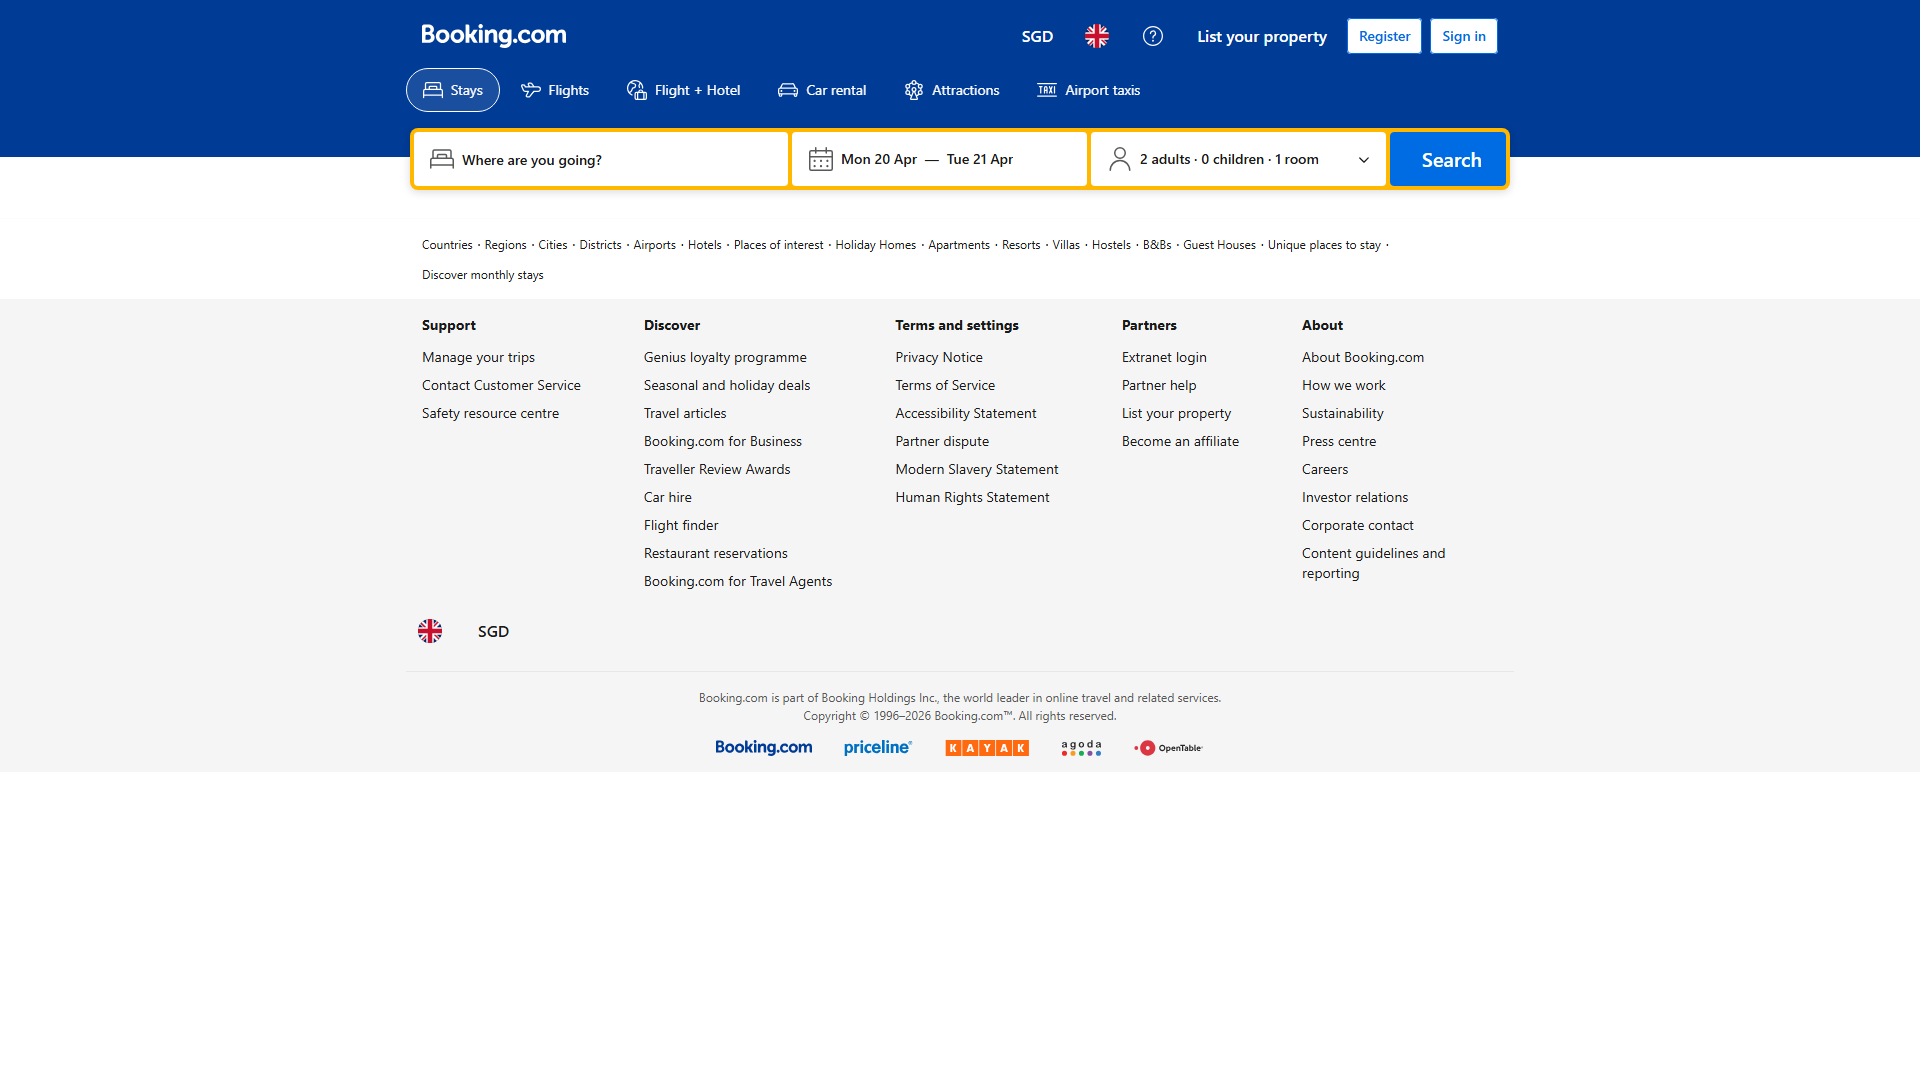
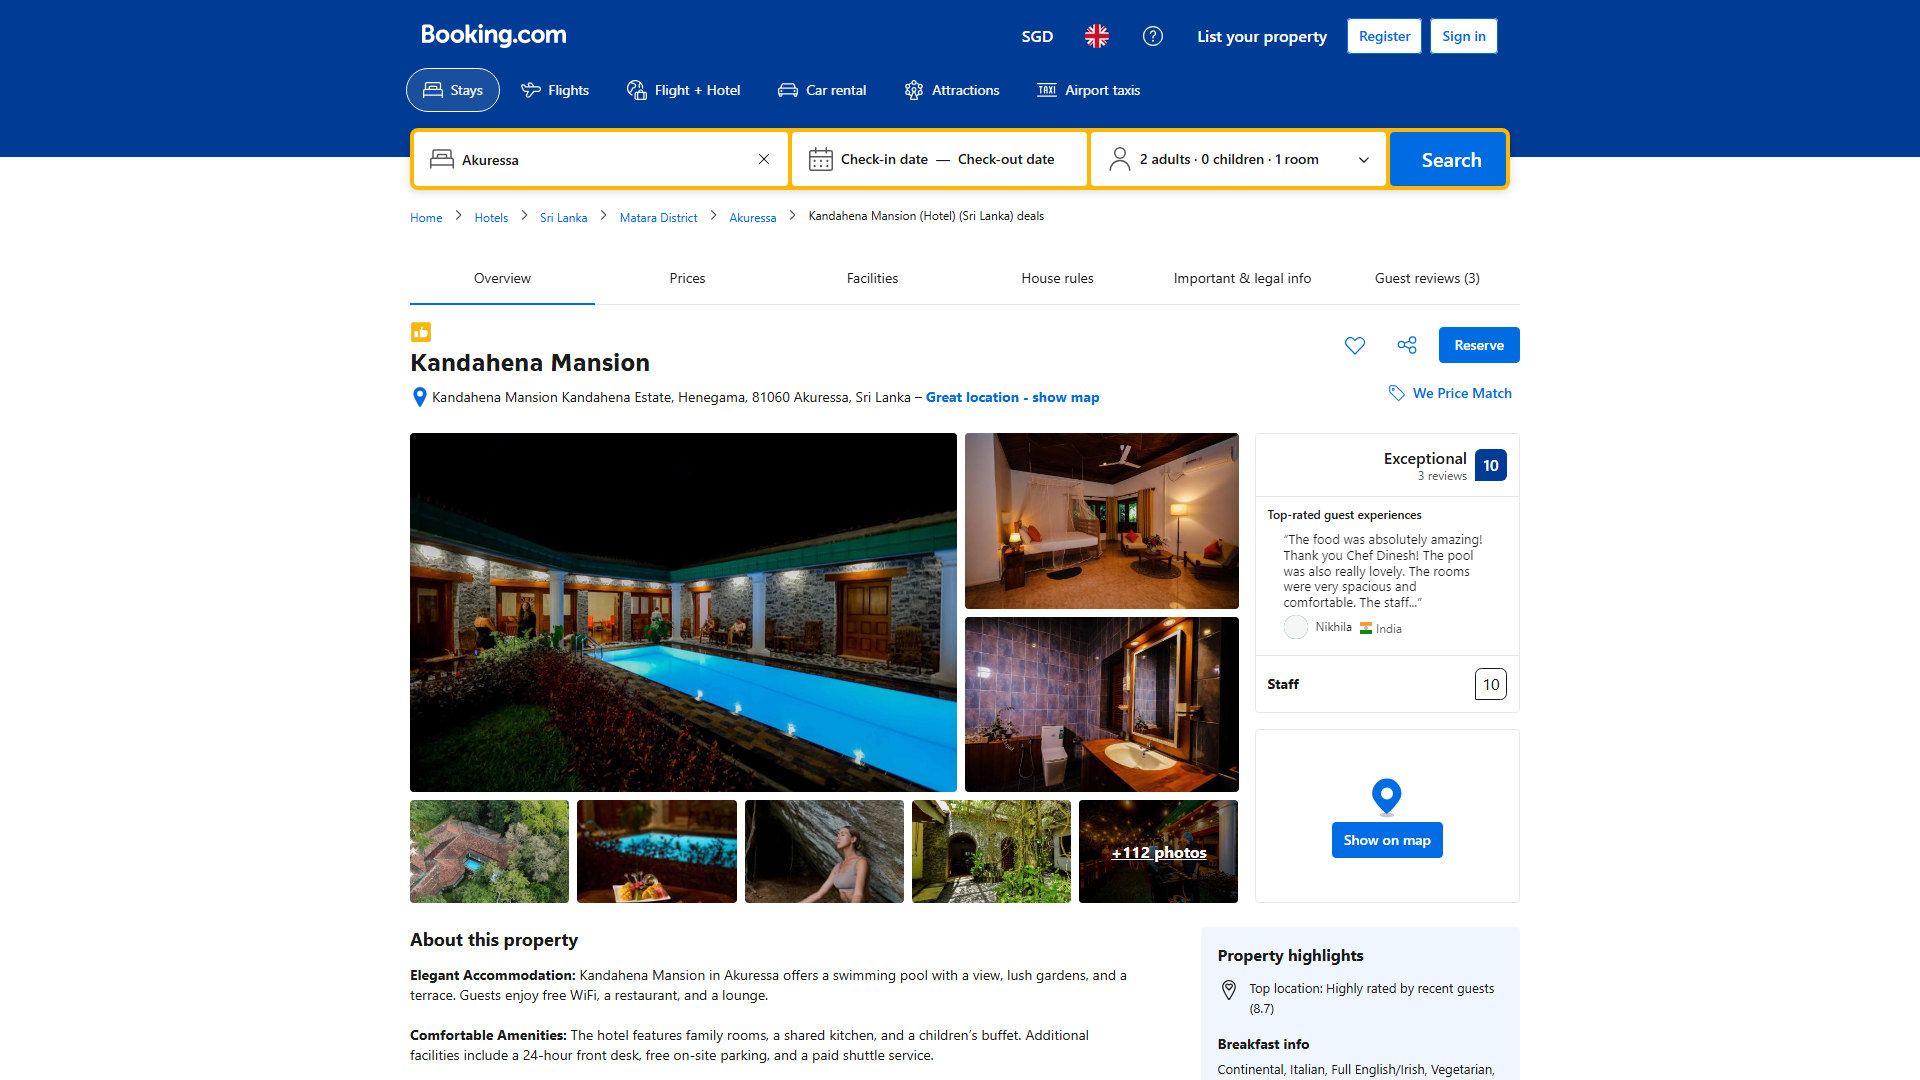
changed embedding logic

diff --git a/backend/app/modules/source/services/embedding_client.py b/backend/app/modules/source/services/embedding_client.py
@@ -1,27 +1,28 @@
 """
 Embedding Client
 ================
-Triggered by the main backend after a scrape COMPLETED notification.
+Triggered by the main backend after the AI analysis pipeline completes.
 
 Flow:
-  1. Fetch unembedded reviews from the Scraper Engine
-     (GET {SCRAPER_ENGINE_URL}/api/reviews/unembedded/{source_id})
+  1. Fetch processed reviews from [ReviewMate].[dbo].[processed_review]
+     that are status='processed' AND is_embedded=0 for the given source_id
   2. Derive a stable integer hotel_id from the source_id for ChromaDB namespacing
   3. POST them in one batch to the Embedding Service
      (POST {EMBEDDING_SERVICE_URL}/embed/batch)
-  4. On success, tell the Scraper Engine to mark those review_ids as embedded
-     (PATCH {SCRAPER_ENGINE_URL}/api/reviews/mark-embedded)
+  4. On success, mark those review IDs as is_embedded=1 directly in processed_review
 """
 
 import os
 import logging
 import threading
 import httpx
+import pyodbc
+
+from app.core.pyodbc_connection import get_connection_string
 
 logger = logging.getLogger(__name__)
 
 # ── Service URLs ─────────────────────────────────────────────────────────────
-SCRAPER_ENGINE_URL = os.getenv("SCRAPER_ENGINE_URL", "http://127.0.0.1:8001")
 EMBEDDING_SERVICE_URL = os.getenv("EMBEDDING_SERVICE_URL", "http://127.0.0.1:8002")
 
 
@@ -37,31 +38,65 @@ def _derive_hotel_id(source_id: str) -> int:
 def _embed_source_reviews(source_id: str) -> None:
     """
     Core logic (runs in a background thread):
-      1. Fetch unembedded reviews from Scraper Engine
+      1. Fetch unembedded processed reviews from ReviewMate DB
       2. Batch-embed them via Embedding Service
-      3. Mark them as embedded in Scraper Engine
+      3. Mark them as embedded in processed_review table
     """
     logger.info(f"[EmbeddingClient] Starting embedding pipeline for source_id={source_id}")
 
-    # ── Step 1: Fetch unembedded reviews from Scraper Engine ──────────────────
+    # ── Step 1: Fetch unembedded, processed reviews from ReviewMate DB ────────
     try:
-        fetch_url = f"{SCRAPER_ENGINE_URL}/api/reviews/unembedded/{source_id}"
-        response = httpx.get(fetch_url, timeout=30.0)
-        response.raise_for_status()
-        payload = response.json()
-    except httpx.HTTPError as e:
-        logger.error(f"[EmbeddingClient] Failed to fetch unembedded reviews for {source_id}: {e}")
-        return
+        conn = pyodbc.connect(get_connection_string())
+        cursor = conn.cursor()
+
+        cursor.execute("""
+            SELECT
+                CAST(id AS VARCHAR(36)) AS review_id,
+                text,
+                positive_text,
+                negative_text
+            FROM dbo.processed_review
+            WHERE source_id = CAST(? AS UNIQUEIDENTIFIER)
+              AND status = 'processed'
+              AND is_embedded = 0
+            ORDER BY scrapedAt ASC
+        """, source_id)
+
+        columns = [col[0] for col in cursor.description]
+        rows = [dict(zip(columns, row)) for row in cursor.fetchall()]
+        conn.close()
     except Exception as e:
-        logger.error(f"[EmbeddingClient] Unexpected error fetching unembedded reviews: {e}")
+        logger.error(f"[EmbeddingClient] Failed to fetch unembedded processed reviews for {source_id}: {e}")
         return
 
-    reviews_data = payload.get("data", [])
+    if not rows:
+        logger.info(f"[EmbeddingClient] No unembedded processed reviews found for source_id={source_id}. Skipping.")
+        return
+
+    # Build review text for embedding (combine text fields)
+    reviews_data = []
+    for row in rows:
+        # Build the review_text from available fields
+        text_parts = []
+        if row.get("text"):
+            text_parts.append(row["text"])
+        if row.get("positive_text"):
+            text_parts.append(row["positive_text"])
+        if row.get("negative_text"):
+            text_parts.append(row["negative_text"])
+
+        review_text = " ".join(text_parts).strip()
+        if review_text:
+            reviews_data.append({
+                "review_id": row["review_id"],
+                "review_text": review_text,
+            })
+
     if not reviews_data:
-        logger.info(f"[EmbeddingClient] No unembedded reviews found for source_id={source_id}. Skipping.")
+        logger.info(f"[EmbeddingClient] All fetched reviews have empty text for source_id={source_id}. Skipping.")
         return
 
-    logger.info(f"[EmbeddingClient] Found {len(reviews_data)} unembedded reviews for source_id={source_id}")
+    logger.info(f"[EmbeddingClient] Found {len(reviews_data)} unembedded processed reviews for source_id={source_id}")
 
     # ── Step 2: Send to Embedding Service ─────────────────────────────────────
     hotel_id = _derive_hotel_id(source_id)
@@ -69,7 +104,7 @@ def _embed_source_reviews(source_id: str) -> None:
         "hotel_id": hotel_id,
         "reviews": [
             {
-                "review_id": str(r["review_id"]),
+                "review_id": r["review_id"],
                 "text": r["review_text"]
             }
             for r in reviews_data
@@ -100,25 +135,33 @@ def _embed_source_reviews(source_id: str) -> None:
 
     logger.info(f"[EmbeddingClient] Successfully embedded {len(embedded_ids_str)} reviews for source_id={source_id}")
 
-    # ── Step 3: Mark reviews as embedded in Scraper Engine ────────────────────
-    # The embedding service returns review_ids as strings.
+    # ── Step 3: Mark reviews as embedded in processed_review table ────────────
     try:
-        mark_url = f"{SCRAPER_ENGINE_URL}/api/reviews/mark-embedded"
-        mark_response = httpx.patch(mark_url, json={"review_ids": embedded_ids_str}, timeout=30.0)
-        mark_response.raise_for_status()
-        mark_result = mark_response.json()
-        logger.info(f"[EmbeddingClient] Marked {mark_result.get('updated_count', 0)} reviews as embedded in Scraper Engine.")
-    except httpx.HTTPError as e:
-        logger.error(f"[EmbeddingClient] Failed to mark reviews as embedded in Scraper Engine: {e}")
+        conn = pyodbc.connect(get_connection_string())
+        cursor = conn.cursor()
+
+        # Build parameterized IN clause
+        placeholders = ",".join(["CAST(? AS UNIQUEIDENTIFIER)"] * len(embedded_ids_str))
+        sql = f"""
+            UPDATE dbo.processed_review
+            SET is_embedded = 1
+            WHERE id IN ({placeholders})
+        """
+        cursor.execute(sql, *embedded_ids_str)
+        updated_count = cursor.rowcount
+        conn.commit()
+        conn.close()
+
+        logger.info(f"[EmbeddingClient] Marked {updated_count} reviews as embedded in processed_review.")
     except Exception as e:
-        logger.error(f"[EmbeddingClient] Unexpected error marking reviews as embedded: {e}")
+        logger.error(f"[EmbeddingClient] Failed to mark reviews as embedded in processed_review: {e}")
 
 
 def trigger_embedding_for_source(source_id: str) -> None:
     """
     Fire-and-forget: launch embedding pipeline in a background thread.
-    Called from source_service.update_sync_status() when status == COMPLETED.
-    Does NOT block the sync-status API response.
+    Called from review_service after AI analysis pipeline completes.
+    Does NOT block the processing pipeline.
     """
     thread = threading.Thread(
         target=_embed_source_reviews,

diff --git a/microservices/scraper_engine/api/endpoints/reviews.py b/microservices/scraper_engine/api/endpoints/reviews.py
@@ -6,8 +6,6 @@ including full platform-specific detail columns and attached media.
 """
 
 from fastapi import APIRouter, HTTPException
-from pydantic import BaseModel
-from typing import List
 from core.database import get_session
 from core.models import (
     Source,
@@ -208,104 +206,3 @@ def delete_review(review_id: str):
         logger.error(f"Failed to delete review {review_id}: {e}", exc_info=True)
 
 
-# ── Mark-Embedded Request Schema ──
-class MarkEmbeddedRequest(BaseModel):
-    """Payload to mark a list of review IDs as embedded."""
-
-    review_ids: List[str]
-
-
-@router.patch("/mark-embedded")
-def mark_reviews_as_embedded(body: MarkEmbeddedRequest):
-    """
-    Mark a batch of reviews as embedded (is_embedded = True).
-    Called by the main backend after the embedding service successfully
-    processes them.
-    """
-    if not body.review_ids:
-        return {"updated_count": 0, "message": "No review IDs provided."}
-
-    session = get_session()
-    try:
-        updated = (
-            session.query(Review)
-            .filter(Review.review_id.in_(body.review_ids))
-            .update({"is_embedded": True}, synchronize_session=False)
-        )
-        session.commit()
-        logger.info(f"Marked {updated} reviews as embedded: {body.review_ids[:10]}...")
-        return {
-            "updated_count": updated,
-            "message": f"Marked {updated} reviews as embedded.",
-        }
-    except Exception as e:
-        session.rollback()
-        logger.error(f"Failed to mark reviews as embedded: {e}", exc_info=True)
-        raise HTTPException(status_code=500, detail=str(e))
-    finally:
-        session.close()
-
-
-@router.get("/unembedded/{source_id}")
-def get_unembedded_reviews(source_id: str, limit: int = 500):
-    """
-    Returns reviews for a source that have NOT yet been embedded (is_embedded=False).
-    Used by the main backend to know which reviews to send to the embedding service.
-    """
-    session = get_session()
-    try:
-        source = session.query(Source).filter_by(source_id=source_id).first()
-        if not source:
-            raise HTTPException(status_code=404, detail="Source not found")
-
-        platform = source.platform_name.lower()
-        detail_attr, serializer = _PLATFORM_SERIALIZERS.get(platform, (None, None))
-
-        query = (
-            session.query(Review)
-            .filter(Review.source_id == source_id)
-            .filter(Review.is_embedded == False)  # noqa: E712
-        )
-
-        if detail_attr:
-            query = query.options(joinedload(getattr(Review, detail_attr)))
-
-        reviews = query.order_by(Review.review_id.asc()).limit(limit).all()
-
-        results = []
-        for r in reviews:
-            detail_obj = getattr(r, detail_attr, None) if detail_attr else None
-            # Build the review_text field for embedding
-            review_text = None
-            if detail_obj:
-                if platform == "booking":
-                    pos = getattr(detail_obj, "positive_text", "") or ""
-                    neg = getattr(detail_obj, "negative_text", "") or ""
-                    review_text = f"{pos} {neg}".strip() or None
-                else:
-                    review_text = getattr(detail_obj, "review_text", None)
-
-            if review_text:  # Only include reviews that have text to embed
-                results.append(
-                    {
-                        "review_id": r.review_id,
-                        "review_text": review_text,
-                    }
-                )
-
-        return {
-            "source_id": source_id,
-            "platform": platform,
-            "unembedded_count": len(results),
-            "data": results,
-        }
-    except HTTPException:
-        raise
-    except Exception as e:
-        logger.error(
-            f"Failed to fetch unembedded reviews for source {source_id}: {e}",
-            exc_info=True,
-        )
-        raise HTTPException(status_code=500, detail=str(e))
-    finally:
-        session.close()

diff --git a/microservices/scraper_engine/core/models.py b/microservices/scraper_engine/core/models.py
@@ -10,7 +10,7 @@ type of data (e.g. stay_date, reviewer_nationality, traveler_type).
 """
 from sqlalchemy import (
     Column, Integer, String, Float, ForeignKey, Unicode, UnicodeText,
-    DateTime, Index, Numeric, Boolean, text
+    DateTime, Index, Numeric, text
 )
 from sqlalchemy.dialects.mssql import UNIQUEIDENTIFIER
 import uuid
@@ -58,15 +58,11 @@ class Review(Base):
     source_id  = Column(String(36), ForeignKey('sources.source_id', ondelete='CASCADE'), nullable=False)
     platform_review_id = Column(Unicode(255), nullable=True)
 
-    # Embedding tracking — False until the embedding service processes this review
-    is_embedded = Column(Boolean, nullable=False, default=False, server_default='0')
-
     created_at = Column(DateTime, server_default=func.now())
 
     __table_args__ = (
         Index('IX_reviews_source', 'source_id'),
         Index('IX_reviews_platform_id', 'source_id', 'platform_review_id'),
-        Index('IX_reviews_embedded', 'source_id', 'is_embedded'),
     )
 
     # Relationships

diff --git a/backend/app/modules/source/services/source_service.py b/backend/app/modules/source/services/source_service.py
@@ -21,7 +21,6 @@ from app.modules.source.schemas import (
     PlatformRead, OrganizationRead, OrganizationSourceDetails, SourceStats,
     SyncLogRead, SyncStatus, SyncStatusRequest
 )
-from app.modules.source.services.embedding_client import trigger_embedding_for_source
 
 def calculate_next_sync_time(base_time: datetime, frequency_id: int) -> datetime:
     """Calculate the next sync time based on base_time and frequency ID."""
@@ -372,9 +371,6 @@ def update_sync_status(
         )
         db.add(sync_log)
 
-        # — Trigger embedding for newly scraped reviews (non-blocking background thread) —
-        trigger_embedding_for_source(str(source.source_id))
-        
         # Trigger Review Ingestion and Processing Pipeline
         if background_tasks:
             background_tasks.add_task(start_ingestion_and_processing_flow, source_id)

diff --git a/backend/app/modules/reviews/services/review_service.py b/backend/app/modules/reviews/services/review_service.py
@@ -191,6 +191,11 @@ async def start_ingestion_and_processing_flow(source_id: uuid.UUID):
             )
             # 3. Process
             await run_analysis_pipeline()
+            logger.info(f"--- Pipeline AI ANALYSIS COMPLETED for source {source_id} ---")
+
+            # 4. Trigger embedding for newly processed reviews
+            from app.modules.source.services.embedding_client import trigger_embedding_for_source
+            trigger_embedding_for_source(str(source_id))
             logger.info(f"--- Pipeline COMPLETED for source {source_id} ---")
         else:
             logger.info("Pipeline: Skipping analysis (0 new reviews ingested).")

diff --git a/backend/app/modules/reviews/models.py b/backend/app/modules/reviews/models.py
@@ -12,6 +12,7 @@ from sqlalchemy import (
     DateTime,
     Integer,
     Float,
+    Boolean,
     ForeignKey,
 )
 from sqlalchemy.orm import relationship
@@ -59,6 +60,9 @@ class ProcessedReview(Base):
     # Status
     status = Column(String(20), nullable=True, default="pending")
     ai_reply = Column(String, nullable=True)
+
+    # Embedding tracking — False until the embedding service processes this review
+    is_embedded = Column(Boolean, nullable=False, default=False, server_default='0')
 
     # Relationships
     media = relationship(
